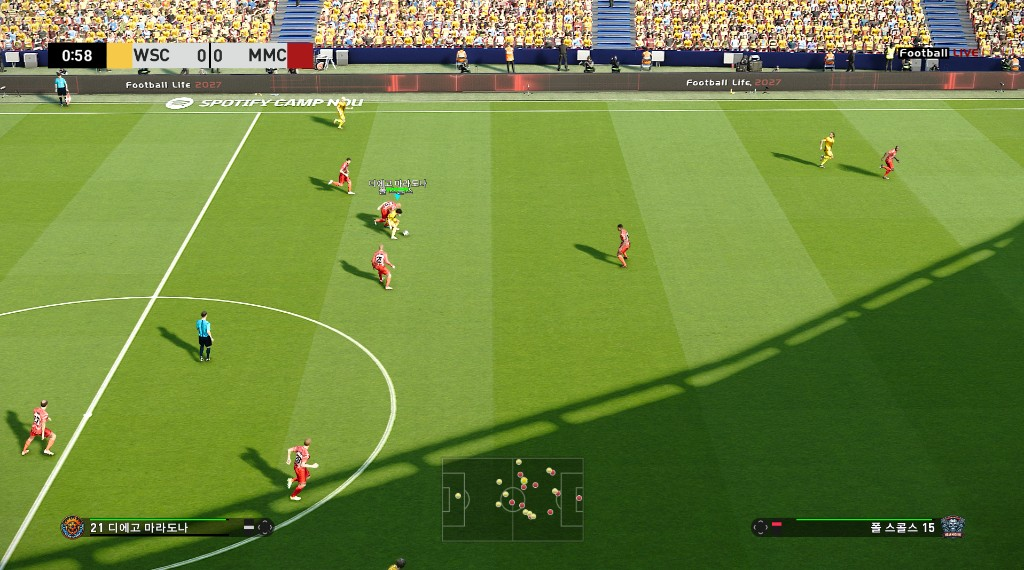
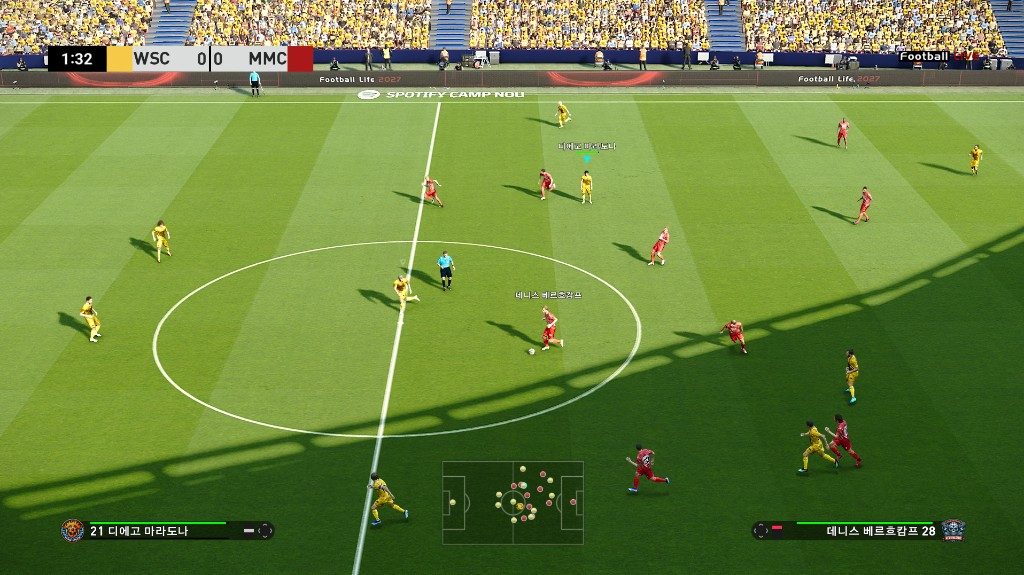
docs: replace second README screenshot with Bergkamp match view

diff --git a/README.md b/README.md
@@ -8,7 +8,7 @@ SP Football Life 2027용 선수 표시명 한글화 배포물입니다.
 
 ![선수 정보 화면 — 킬리안 음바페](images/ingame_player_card.jpg)
 
-![경기 중 이름표 — 디에고 마라도나 / 폴 스콜스](images/ingame_match.jpg)
+![경기 중 이름표 — 데니스 베르흐캄프 / 디에고 마라도나](images/ingame_match.jpg)
 
 ## 릴리즈
 
